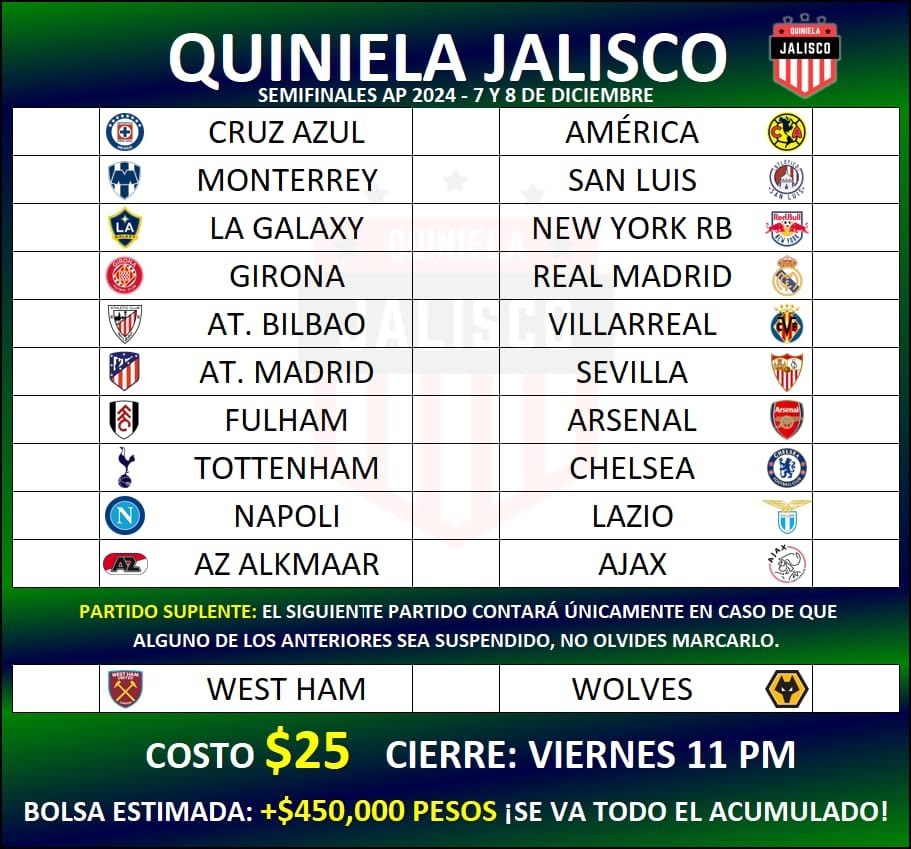
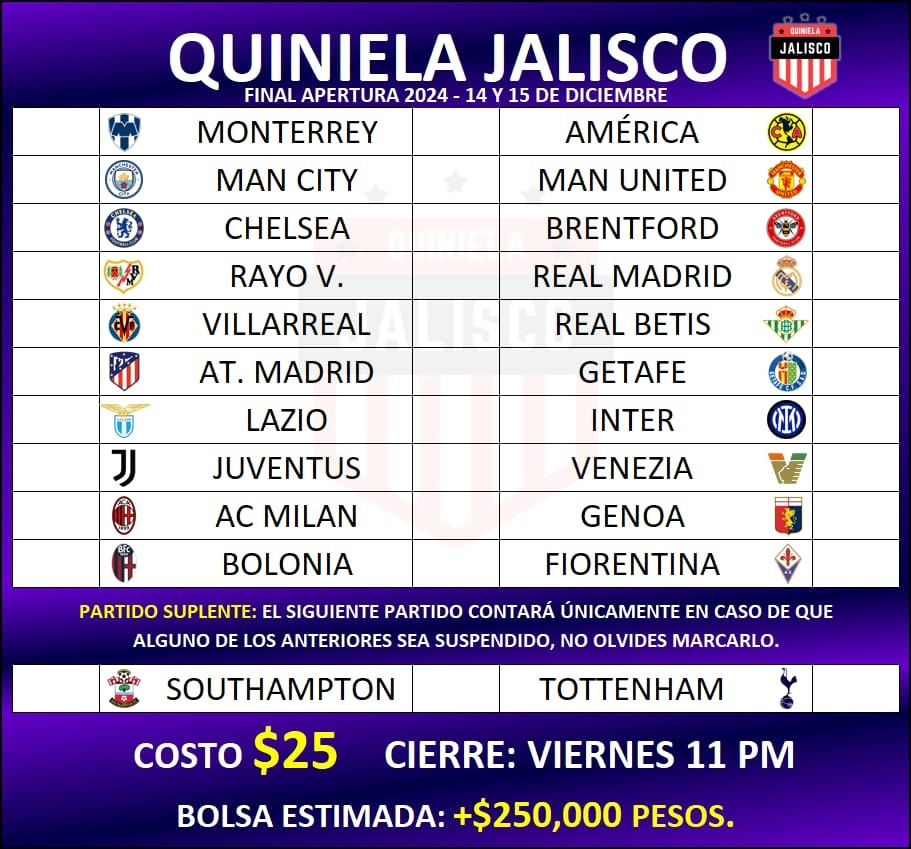
Final A24

diff --git a/11/styles11.css b/11/styles11.css
@@ -95,8 +95,8 @@ body{
     margin-top: 8.5%;
     border-top: solid 1px black;
     border-radius: 0 0 14px 14px;
-    background: -webkit-linear-gradient(0.49turn, rgb(8 6 67) -7%, rgb(1 78 32) 80%);
-    background: linear-gradient(0.49turn, rgb(8 6 67) -7%, rgb(1 78 32) 80%);
+    background: -webkit-linear-gradient(0.49turn, rgb(8 6 67) -7%, rgb(70 0 162) 80%);
+    background: linear-gradient(0.49turn, rgb(8 6 67) -7%, rgb(70 0 162) 80%);
 }
 
 .text-lg{
@@ -293,7 +293,7 @@ h6{
 }
 
 #cantidad:before{
-    content:'+$450,000 pesos\A¡Se reparte todo el acumulado!';
+    content:'+$250,000 pesos';
     color: yellow;
     white-space:pre;
 }
